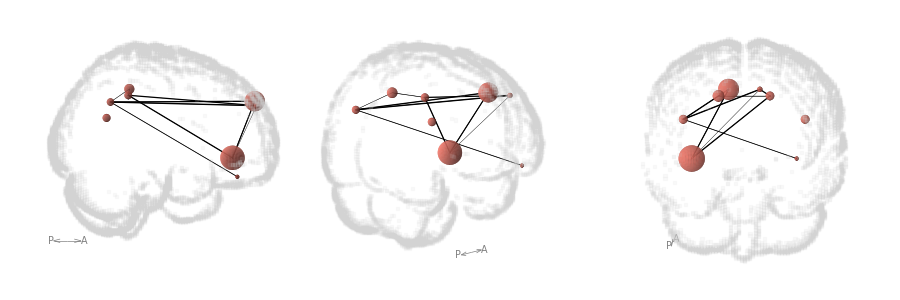
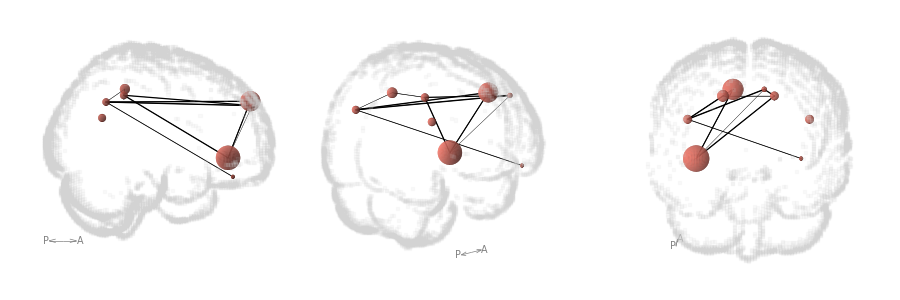
Allow multiple rows

diff --git a/netonbrain/plot.py b/netonbrain/plot.py
@@ -20,8 +20,10 @@ def plot(nodes, fig=None, ax=None, view='L', frames=1, edges=None, template=None
         fig = plt.figure()
         ax = fig.add_subplot(111, projection='3d')
         bnv.plot(ax, ...)
-    view : string or tuple
+    view : string, list, or tuple
         if string: alternatives are 'A' (anterior), 'P' (posteiror), 'L' (left), 'R' (right), 'I' (inferior), 'S' (superior)
+        or any combination of these (e.g 'LR', 'AP')
+        if list: multiple strings (as above) which will create new rows of subplots.
         if tuple: (azim, elev) where azim rotates along xy, and elev rotates along xz.
     nodes : dataframe
         must include x, y, z columns that correspond to coordinates of nodes. Can include additional infomation for node size and color.
@@ -62,56 +64,76 @@ def plot(nodes, fig=None, ax=None, view='L', frames=1, edges=None, template=None
 
     """
 
-    azim, elev, arrowaxis = _get_view(view, frames, arrowaxis=arrowaxis)
-    if ax is not None and not isinstance(ax, list) and len(azim) > 1:
+    # get the number of views
+    if isinstance(view, list):
+        nrows = len(view)
+    else:
+        nrows = 1
+        view = [view]
+    n_subplots = nrows * frames
+    if ax is not None and not isinstance(ax, list) and n_subplots > 1:
         raise ValueError(
             'Ax input must be a list when requesting multiple frames')
     if isinstance(ax, list):
-        if len(ax) != len(azim):
+        if len(ax) != n_subplots:
             raise ValueError('Ax list, must equal number of frames requested')
     if ax is None:
-        fig = plt.figure(figsize=(len(azim)*3, 3))
-        colnum = len(azim) * 10
+        fig = plt.figure(figsize=(frames * 3, 3 * nrows))
+        colnum = frames * 10
+        rows = nrows * 100
 
     ax_in = ax
+    # Prespecify ouput ax list
     ax_out = []
-    for fi, _ in enumerate(azim):
-        if ax_in is None:
-            subplotid = 100 + colnum + fi + 1
-            ax = fig.add_subplot(subplotid, projection='3d')
-        else:
-            ax = ax_in[fi]
-
-        affine = None
-        if template is not None:
-            affine = _plot_template(ax, templatestyle, template, templatecolor=templatecolor,
-                                    alpha=templatealpha, voxsize=templatevoxsize,
-                                    surface_resolution=surface_resolution,
-                                    edgethreshold=templateedgethreshold,
-                                    azim=azim[fi], elev=elev[fi])
-        # Template voxels will have origin at 0,0,0
-        # It is easier to scale the nodes from the image affine
-        # Then to rescale the ax.voxels function
-        # So if affine is not None, nodes get scaled in relation to origin and voxelsize,
-        if fi == 0:
-            nodes = _scale_nodes(nodes, affine)
-        if edges is not None:
-            _plot_edges(ax, nodes, edges, edgewidth=edgewidth,
-                        edgecolor=edgecolor)
-        if nodes is not None:
-            if nodespheres:
-                _plot_spheres(ax, nodes, nodecolor=nodecolor, nodesize=nodesize, nodecols=nodecols, nodescale=nodescale)
+    # Ax counter for double forloop
+    axind = -1
+    for ri in range(nrows):
+        # Get the azim, elev and arrowaxis for each row
+        azim, elev, arrowaxis_row = _get_view(
+            view[ri], frames, arrowaxis=arrowaxis)
+        for fi in range(frames):
+            axind += 1
+            if ax_in is None:
+                subplotid = rows + colnum + axind + 1
+                ax = fig.add_subplot(subplotid, projection='3d')
             else:
-                _plot_nodes(ax, nodes, nodecolor=nodecolor, nodesize=nodesize, nodecols=nodecols)
-        if arrowaxis is not None:
-            _add_axis_arrows(ax, dims=arrowaxis,
-                             length=arrowlength, origin=arroworigin,
-                             azim=azim[fi], elev=elev[fi])
+                # here ax can only be a 1d list, not 2d list.
+                ax = ax_in[axind]
 
-        ax.set_box_aspect([1, 1, 1])  # IMPORTANT - this is the new, key line
-        _set_axes_equal(ax)  # IMPORTANT - this is also required
-        ax.axis('off')
-        ax.view_init(azim=azim[fi], elev=elev[fi])
-        ax_out.append(ax)
-        fig.tight_layout()
+            affine = None
+            if template is not None:
+                affine = _plot_template(ax, templatestyle, template, templatecolor=templatecolor,
+                                        alpha=templatealpha, voxsize=templatevoxsize,
+                                        surface_resolution=surface_resolution,
+                                        edgethreshold=templateedgethreshold,
+                                        azim=azim[fi], elev=elev[fi])
+            # Template voxels will have origin at 0,0,0
+            # It is easier to scale the nodes from the image affine
+            # Then to rescale the ax.voxels function
+            # So if affine is not None, nodes get scaled in relation to origin and voxelsize,
+            if axind == 0:
+                nodes = _scale_nodes(nodes, affine)
+            if edges is not None:
+                _plot_edges(ax, nodes, edges, edgewidth=edgewidth,
+                            edgecolor=edgecolor)
+            if nodes is not None:
+                if nodespheres:
+                    _plot_spheres(ax, nodes, nodecolor=nodecolor,
+                                  nodesize=nodesize, nodecols=nodecols, nodescale=nodescale)
+                else:
+                    _plot_nodes(ax, nodes, nodecolor=nodecolor,
+                                nodesize=nodesize, nodecols=nodecols)
+            if arrowaxis_row is not None:
+                _add_axis_arrows(ax, dims=arrowaxis_row,
+                                 length=arrowlength, origin=arroworigin,
+                                 azim=azim[fi], elev=elev[fi])
+
+            # IMPORTANT - this is the new, key line
+            ax.set_box_aspect([1, 1, 1])
+            _set_axes_equal(ax)  # IMPORTANT - this is also required
+            ax.axis('off')
+            ax.view_init(azim=azim[fi], elev=elev[fi])
+            ax_out.append(ax)
+
+    fig.tight_layout()
     return ax_out

diff --git a/examples/example1.py b/examples/example1.py
@@ -43,6 +43,18 @@ nob.plot(template='MNI152NLin2009cAsym',
          edges=edges)
 plt.savefig('./examples/figures/singleview.png', dpi=150)
 
+# Plot multiple rows
+
+nob.plot(template='MNI152NLin2009cAsym',
+         templatestyle='surface',
+         nodes=nodes,
+         nodesize='centrality',
+         edges=edges,
+         view=['LR', 'AP'],
+         frames=2)
+plt.savefig('./examples/figures/rows1.png', dpi=150)
+
+
 # Plot different styles
 
 nob.plot(template='MNI152NLin2009cAsym',

diff --git a/README.md b/README.md
@@ -55,13 +55,18 @@ The view can be a string:
 - Inferior 'I'
 - Specific rotation (tuple): (xy-rotate, xz-rotate) in degrees. The R view is (0, 0)
 
+Sequences of views are possible.
+
 ## Rotated view sequences
 
 You can also generate a sequence of rotated images.
 
-If the view is two letters, LR, then a sequence will be generated from the L-view to R-view.
-The parameter frames will dictate how many images are generated.
+If the view is two letters, (e.g. `'LR'`), then a sequence will be generated from the L-view to R-view.
+The parameter `frames` will controle how many images are generated.
 Images will then be displayed along a single row.
+
+If you specify a list (e.g. `['LR', 'AP']`) then two different rows will be generated.
+The first, from left to right. The second from anterior to posterior. 
 
 ## Minimal examples
 
@@ -143,6 +148,21 @@ nob.plot(template='MNI152NLin2009cAsym',
 plt.show()
 ```
 ![](./examples/figures/seq2.png)
+
+### Plot multiple rows
+
+```python
+nob.plot(template='MNI152NLin2009cAsym',
+         templatestyle='surface',
+         nodes=nodes,
+         nodesize='centrality',
+         edges=edges,
+         view=['LR', 'AP'],
+         frames=2)
+plt.show()
+```
+![](./examples/figures/rows1.png)
+
 
 ## Get involved? 
 
